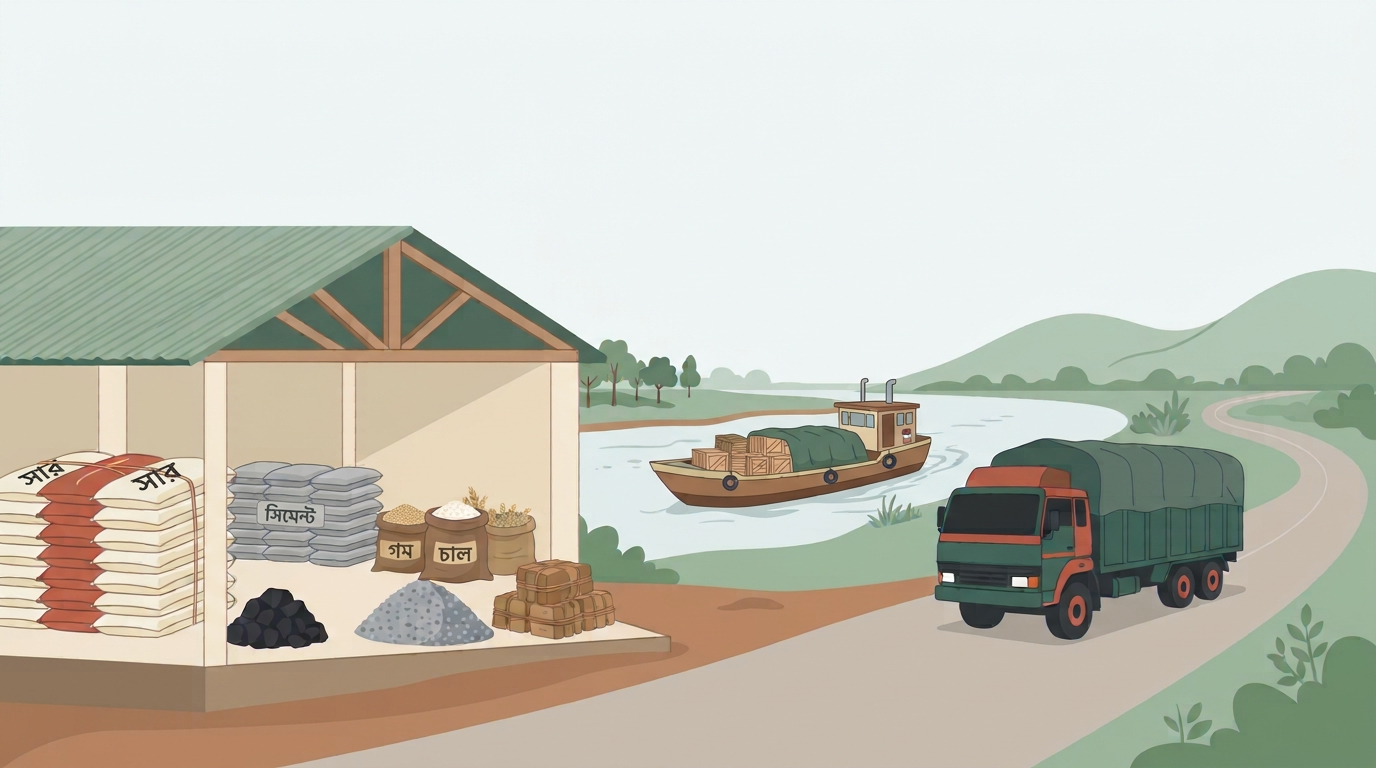
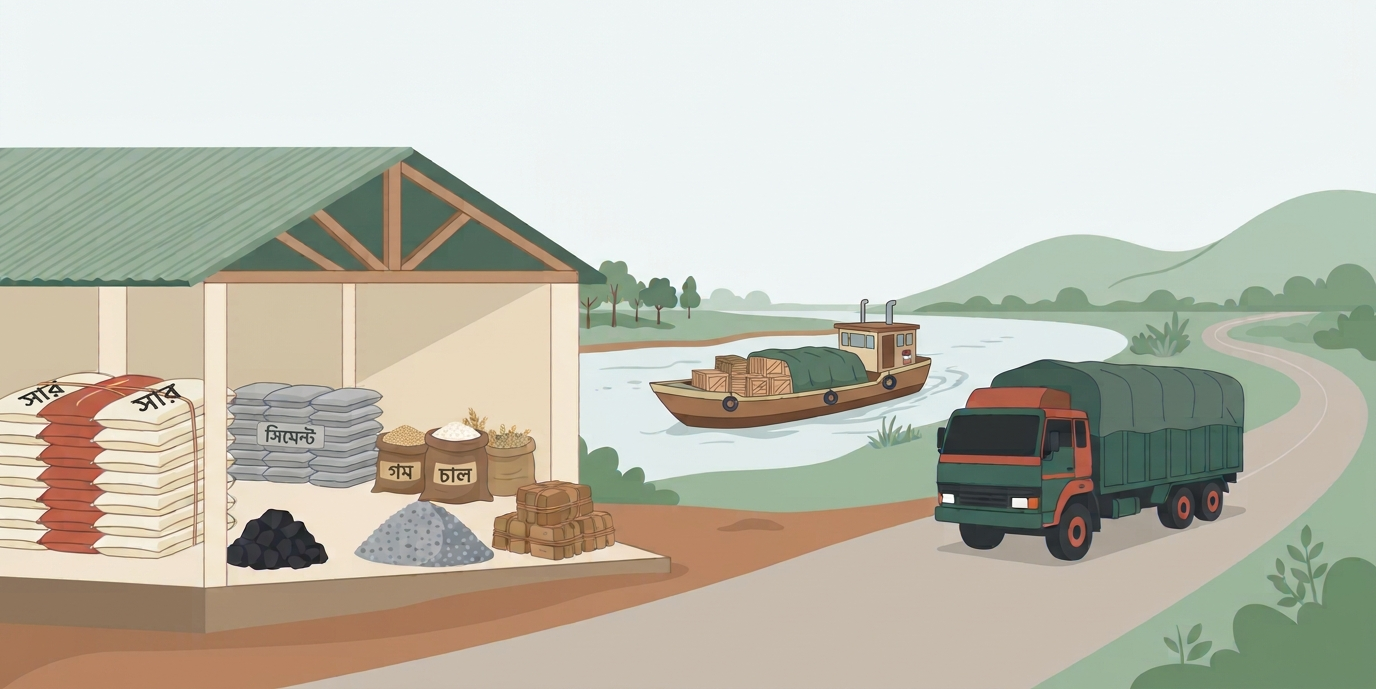
Add files via upload

diff --git a/index.html b/index.html
@@ -76,9 +76,9 @@ nav{display:flex;align-items:center;justify-content:space-between;height:64px;ga
 }
 
 .hero{padding:52px 0 36px}
-.banner{position:relative;overflow:hidden;background:var(--soft);height:320px;display:flex;align-items:center;justify-content:center}
-.banner img{display:block;width:100%;height:100%;object-fit:contain;object-position:center}
-@media(max-width:760px){.banner{height:190px}}
+.banner{position:relative;overflow:hidden;background:var(--soft);height:600px;display:flex;align-items:center;justify-content:center}
+.banner img{display:block;width:100%;height:100%;object-fit:cover;object-position:center 45%}
+@media(max-width:760px){.banner{height:320px}}
 .hero .wrap{display:grid;grid-template-columns:minmax(0,1.15fr) minmax(0,.85fr);gap:40px;align-items:center}
 @media(max-width:760px){.hero .wrap{grid-template-columns:1fr;gap:28px}.owner{max-width:100%}}
 @media(max-width:400px){.cta{flex-direction:column;align-items:stretch}.cta .btn{width:100%}}
@@ -149,11 +149,6 @@ footer{padding:26px 0;background:var(--brand-d);color:#cfe0d8;font-size:.9rem}
 </style>
 </head>
 <body data-page="home">
-<div class="topstrip"><div class="wrap">
-<div class="ts-l"><span class="ts-t"><svg class="si" viewBox="0 0 24 24" aria-hidden="true"><path d="M3 7h11v9H3zM14 10h4l3 3v3h-7z"/><circle cx="7" cy="18" r="1.6"/><circle cx="17.5" cy="18" r="1.6"/></svg>নওয়াপাড়া, যশোর · ব্যবসা দু'টি</span></div>
-<div class="ts-r"><div class="lang" id="lang"><button type="button" data-l="bn" class="on">BN</button><button type="button" data-l="en">EN</button></div></div>
-</div></div>
-
 <header id="hd"><div class="wrap"><nav>
 <a class="brand" href="#top"><img class="logo" id="logo" src="assets/logo.png" alt="মেসার্স নবী এন্টারপ্রাইজ"><span class="bt"><b class="bn">মেসার্স নবী এন্টারপ্রাইজ</b><small>Nabi Enterprise &amp; Binimoy Transport</small></span></a>
 <div class="links" id="links"><a href="#businesses">ব্যবসাসমূহ</a><a href="#owner">প্রোপ্রাইটর</a><a href="#contact">যোগাযোগ</a></div>
